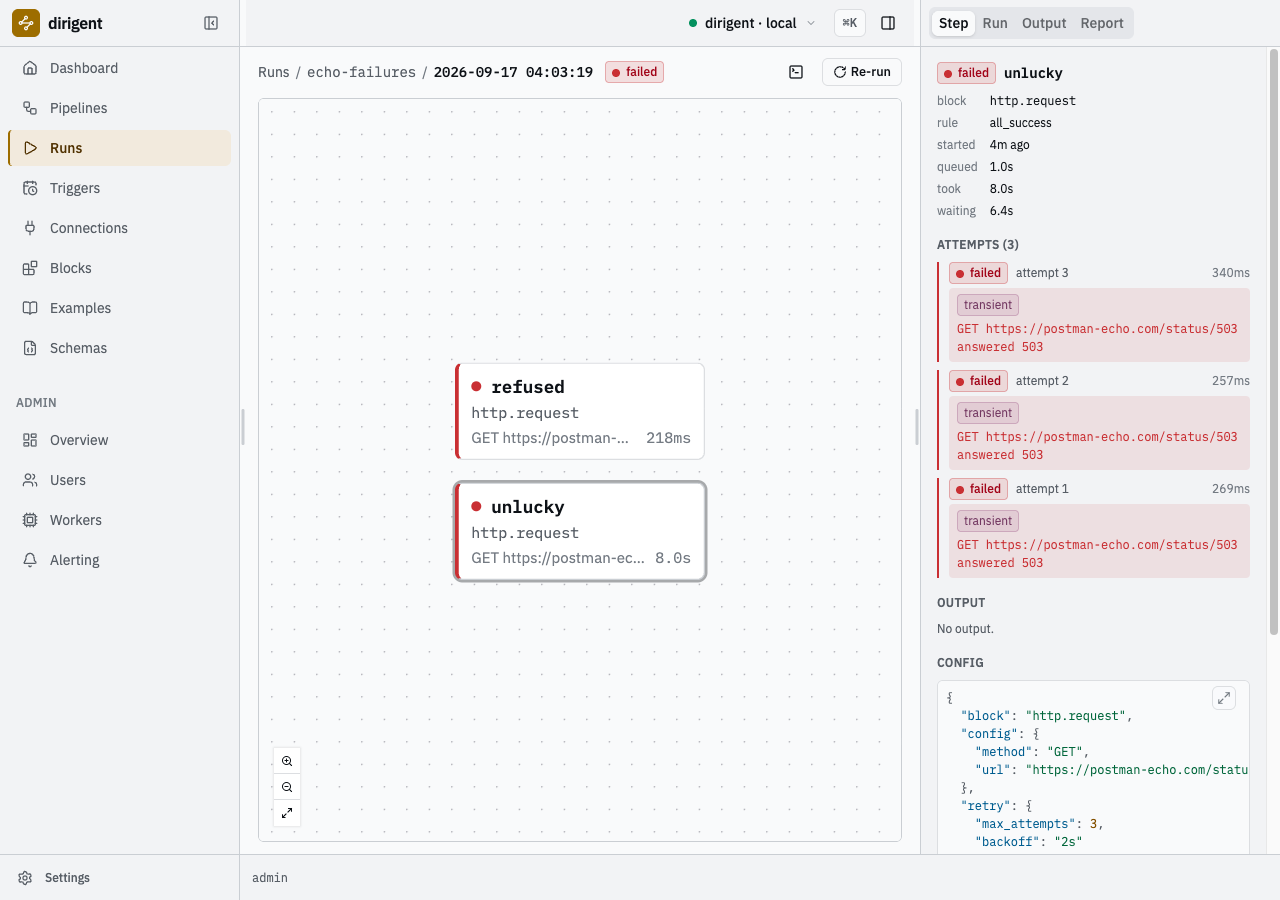
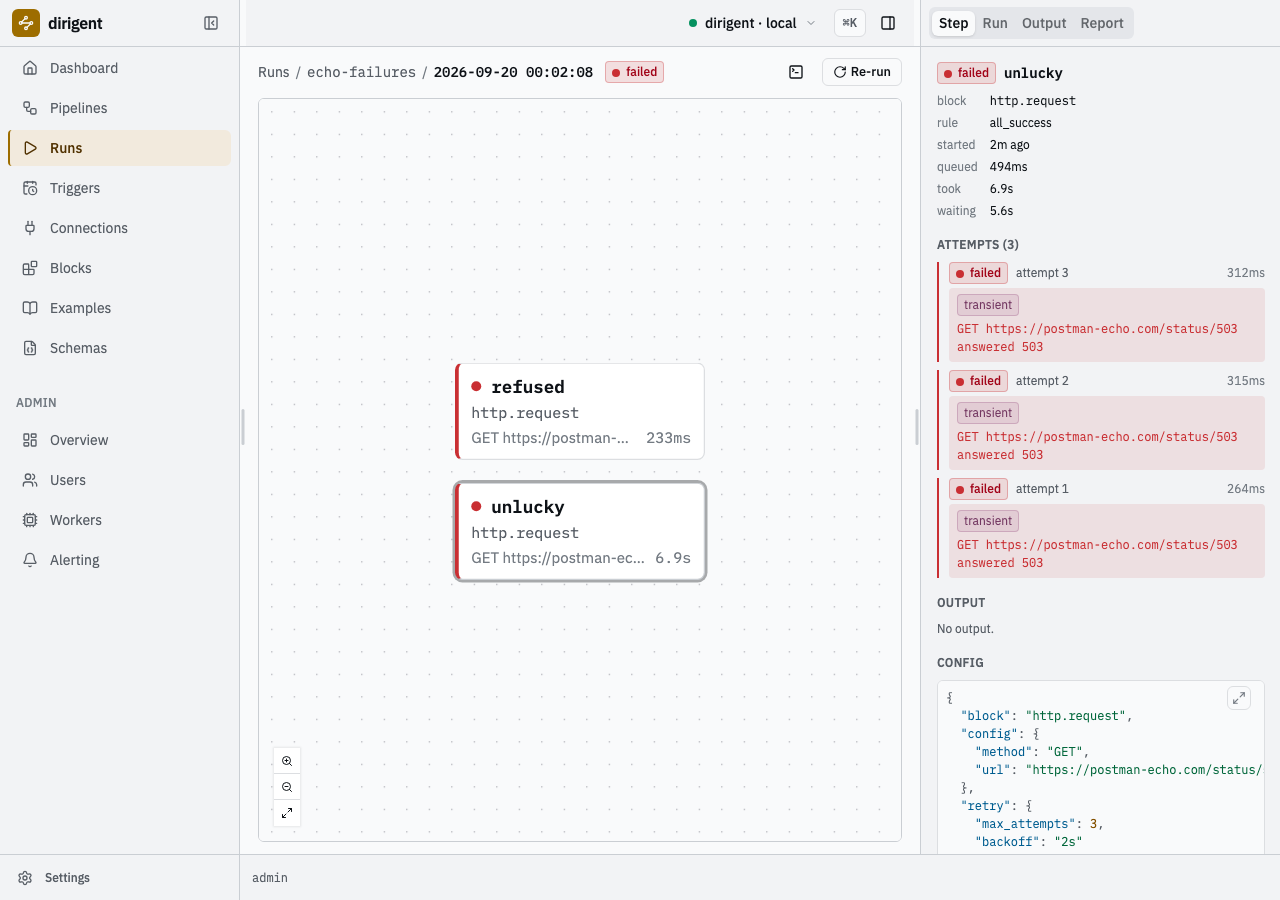
docs: re-shoot the basics tutorial on 0.16.7

Changed region(s): [[0.9375, 0.0622, 1.0, 0.7156], [0.4375, 0.0622, 0.4688, 0.0933]]

diff --git a/docs/basics.md b/docs/basics.md
@@ -48,7 +48,7 @@ uv sync
 ```
 
 ```text
-2026-09-19T14:45:19.340+02:00 [info    ] initialised                    [instance.initialised] directory=/home/you/basics state=.dirigent/state schema=0001_baseline admin=admin template=local version=0.16.5
+2026-09-20T00:00:26.319+02:00 [info    ] initialised                    [instance.initialised] directory=/home/you/basics state=.dirigent/state schema=0001_baseline admin=admin template=local version=0.16.7
 ```
 
 It creates the state directory, migrates the schema, creates the first admin, and mints that
@@ -312,7 +312,7 @@ uv run dg runs show 01a0ad18-60eb-7566-8497-7f16384117ed --json \
 The query arguments came back under `args`, with the parameter's default in `station`. The same
 run is on the Runs screen of the UI, and choosing a step opens what it produced:
 
-![A run in the UI: one step named ask, succeeded in 279 milliseconds, its output showing the echoed args.](images/basics/run-first.png)
+![A run in the UI: one step named ask, succeeded in 356 milliseconds, its output showing the echoed args.](images/basics/run-first.png)
 
 *The run's only step, its one attempt, and the answer it stored.*
 
@@ -518,6 +518,13 @@ steps
 ![The Schemas screen with the echo-reading schema selected, its JSON shown beside the list.](images/basics/schemas.png)
 
 *The shape the instance now holds. Any pipeline on this instance may gate on it by code.*
+
+The step's `schema` box shows the same shape: the code it names opens to the body the instance
+holds.
+
+![The pipeline editor with the check step selected, its schema box opened to the body of echo-reading.](images/basics/step-check.png)
+
+*The code in the box, the shape behind it, and a link to the row it came from.*
 
 ## 5. The send
 
@@ -736,7 +743,7 @@ uv run dg run echo-failures --watch
 
 *One attempt, with three allowed. A rejected failure never touches the budget.*
 
-![The same run with the unlucky step selected: three attempts, each one transient, eight seconds from the first to the last.](images/basics/run-retried.png)
+![The same run with the unlucky step selected: three attempts, each one transient, seven seconds from the first to the last.](images/basics/run-retried.png)
 
 *The same budget, spent. Every attempt is a row of its own, with its own resolved config and its own logs, which is what makes a retry auditable rather than a counter.*
 
